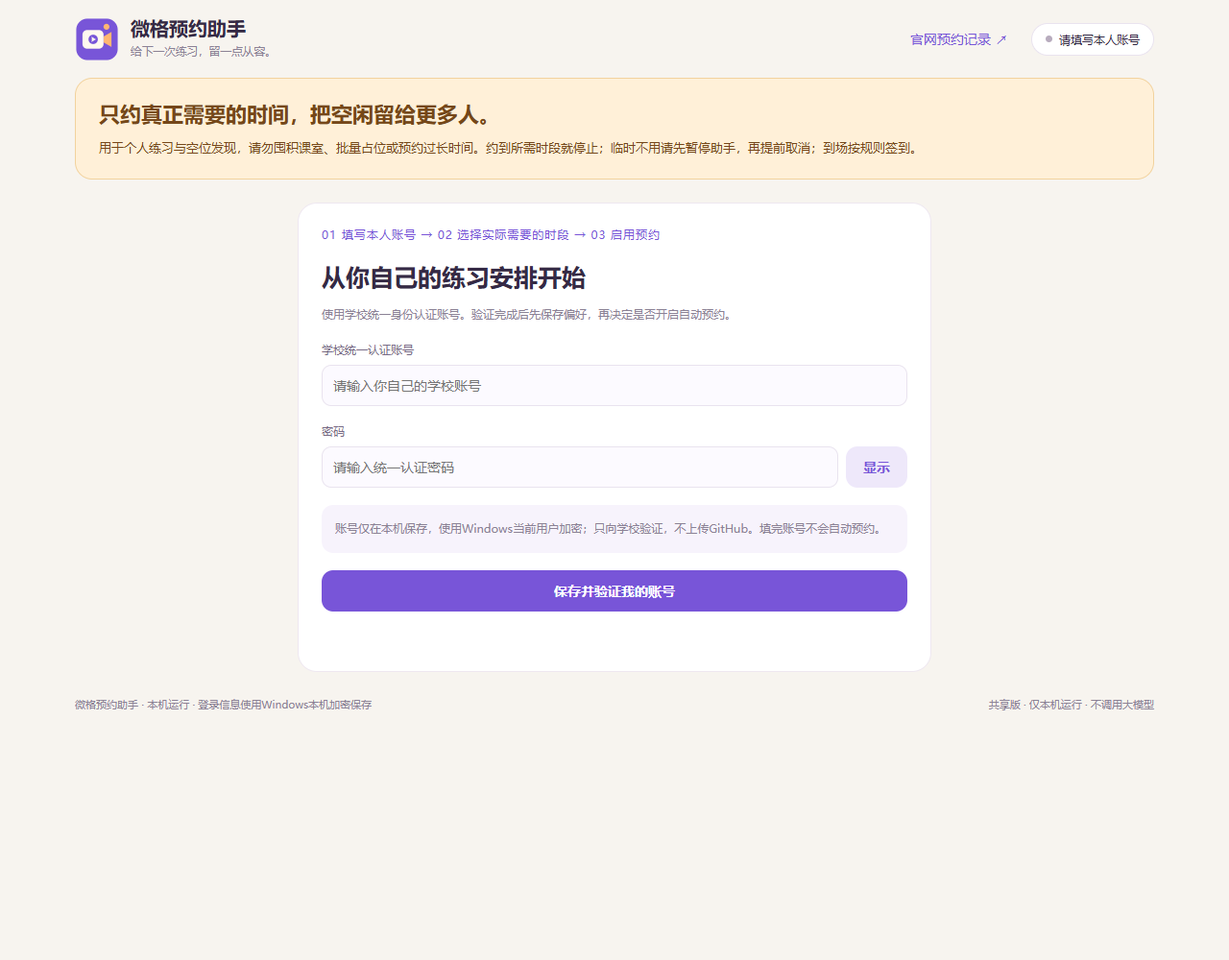
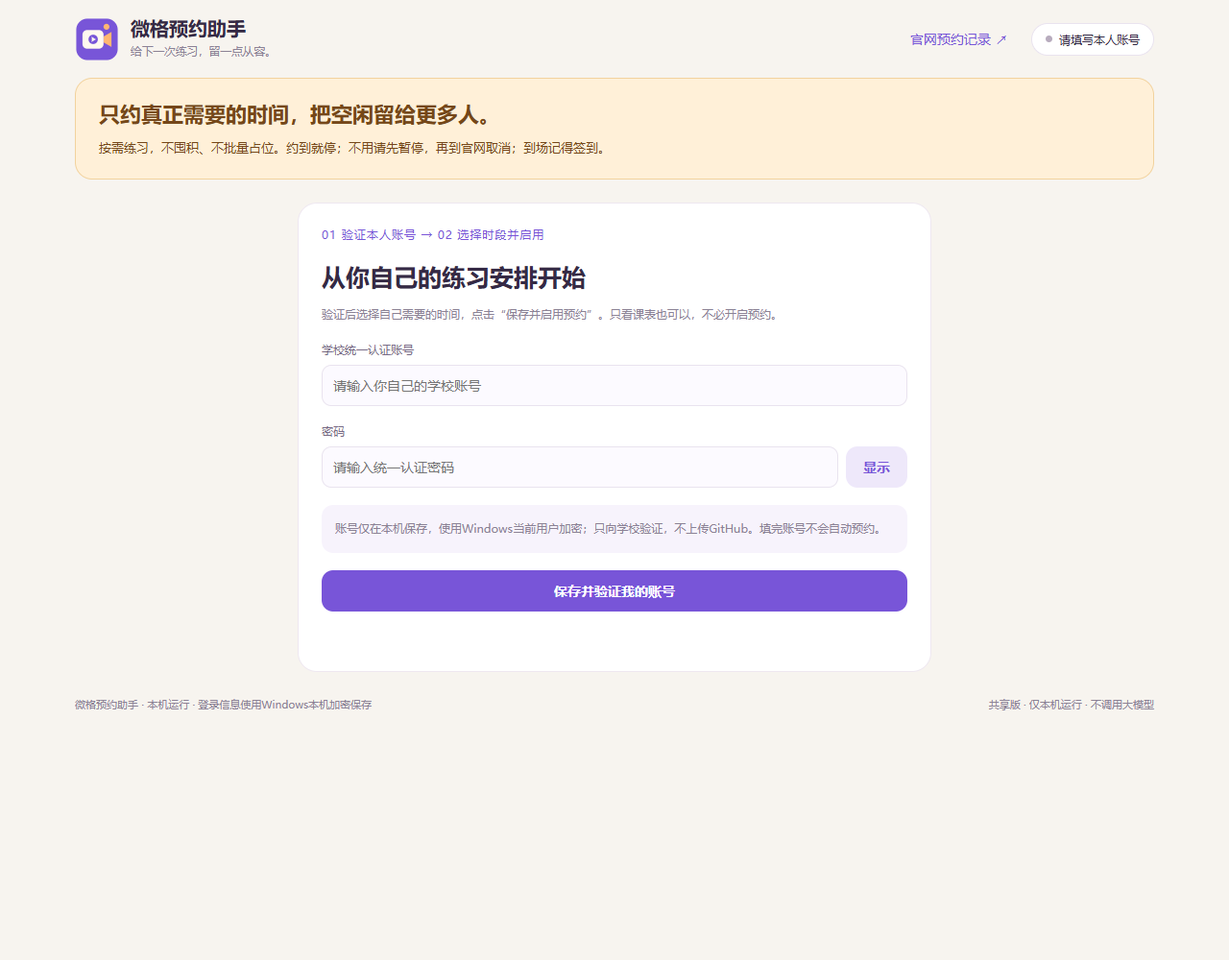
Simplify shared setup and promote need-based classroom use

diff --git a/ui.html b/ui.html
@@ -11,8 +11,8 @@ header{padding:16px 0}.wrap{padding-bottom:18px}.page-tabs{margin-bottom:16px}.h
 [hidden]{display:none!important}.fair-use{margin:0 0 20px;padding:20px 24px;background:#fff0d8;border:1px solid #f2d29d;border-radius:18px;color:#754719}.fair-use strong{font-size:22px;display:block;line-height:1.5}.fair-use p{margin:7px 0 0;font-size:13px;line-height:1.8}.account-setup{max-width:660px;margin:24px auto}.account-setup h1{font-size:25px;margin:0 0 12px}.account-setup .steps{color:var(--purple);font-size:12px;letter-spacing:1px;margin-bottom:20px}.password-row{display:flex;gap:8px}.password-row input{min-width:0;flex:1}.account-message{min-height:24px;color:#a55d2c;line-height:1.7;margin-top:14px}.account-actions{margin:0 0 18px}.account-privacy{background:#f7f3fc;border-radius:12px;padding:14px;margin:18px 0}.account-submit{width:100%}@media(max-width:530px){.fair-use strong{font-size:19px}.fair-use{padding:17px}}
 </style></head><body><div class="wrap">
 <header><div class="brand"><img src="/icon.svg" alt="摄像机"><div><strong>微格预约助手</strong><small>给下一次练习，留一点从容。</small></div></div><div class="nav"><a href="https://tstc.scnu.edu.cn/#/appointment-record" target="_blank" rel="noopener">官网预约记录 ↗</a><span class="pill"><i id="networkDot" class="dot"></i><span id="network">正在连接</span></span></div></header>
-<section class="fair-use" aria-label="按需预约倡议"><strong>只约真正需要的时间，把空闲留给更多人。</strong><p>用于个人练习与空位发现，请勿囤积课室、批量占位或预约过长时间。约到所需时段就停止；临时不用请先暂停助手，再提前取消；到场按规则签到。</p></section>
-<section id="accountSetup" class="card account-setup hide" aria-labelledby="setupTitle"><div class="steps">01 填写本人账号 → 02 选择实际需要的时段 → 03 启用预约</div><h1 id="setupTitle">从你自己的练习安排开始</h1><p class="sub">使用学校统一身份认证账号。验证完成后先保存偏好，再决定是否开启自动预约。</p><form id="accountForm"><label class="field"><span>学校统一认证账号</span><input id="loginAccount" name="username" autocomplete="username" maxlength="64" required placeholder="请输入你自己的学校账号"></label><label class="field"><span>密码</span><div class="password-row"><input id="loginPassword" name="password" type="password" autocomplete="current-password" maxlength="256" required placeholder="请输入统一认证密码"><button id="showPassword" type="button" aria-label="显示密码">显示</button></div></label><div class="account-privacy sub">账号仅在本机保存，使用Windows当前用户加密；只向学校验证，不上传GitHub。填完账号不会自动预约。</div><button id="submitAccount" class="primary account-submit" type="submit">保存并验证我的账号</button><button id="cancelAccount" class="outline hide" type="button">返回面板</button><div id="accountMessage" class="account-message" role="status" aria-live="polite"></div></form></section>
+<section class="fair-use" aria-label="按需预约倡议"><strong>只约真正需要的时间，把空闲留给更多人。</strong><p>按需练习，不囤积、不批量占位。约到就停；不用请先暂停，再到官网取消；到场记得签到。</p></section>
+<section id="accountSetup" class="card account-setup hide" aria-labelledby="setupTitle"><div class="steps">01 验证本人账号 → 02 选择时段并启用</div><h1 id="setupTitle">从你自己的练习安排开始</h1><p class="sub">验证后选择自己需要的时间，点击“保存并启用预约”。只看课表也可以，不必开启预约。</p><form id="accountForm"><label class="field"><span>学校统一认证账号</span><input id="loginAccount" name="username" autocomplete="username" maxlength="64" required placeholder="请输入你自己的学校账号"></label><label class="field"><span>密码</span><div class="password-row"><input id="loginPassword" name="password" type="password" autocomplete="current-password" maxlength="256" required placeholder="请输入统一认证密码"><button id="showPassword" type="button" aria-label="显示密码">显示</button></div></label><div class="account-privacy sub">账号仅在本机保存，使用Windows当前用户加密；只向学校验证，不上传GitHub。填完账号不会自动预约。</div><button id="submitAccount" class="primary account-submit" type="submit">保存并验证我的账号</button><button id="cancelAccount" class="outline hide" type="button">返回面板</button><div id="accountMessage" class="account-message" role="status" aria-live="polite"></div></form></section>
 <nav class="page-tabs" role="tablist" aria-label="助手页面"><button id="tab-home" role="tab" aria-selected="true" aria-controls="page-home" data-page="home">预约首页</button><button id="tab-board" role="tab" aria-selected="false" aria-controls="page-board" tabindex="-1" data-page="board">课室课表</button><button id="tab-observation" role="tab" aria-selected="false" aria-controls="page-observation" tabindex="-1" data-page="observation">预约观察</button><button id="tab-settings" role="tab" aria-selected="false" aria-controls="page-settings" tabindex="-1" data-page="settings">预约设置</button></nav>
 <section id="notificationBanner" class="card strong-notice hide" role="alert"><h2 id="notificationTitle"></h2><div id="notificationDetails" class="notice-detail"></div><div class="row"><span class="sub">这只是确认收到提醒，签到仍需本人到场完成。</span><button id="ackAlert" class="primary">我已看到提醒</button></div></section>
 <section id="page-board" class="page-panel" role="tabpanel" aria-labelledby="tab-board" hidden><section class="card board" aria-labelledby="boardTitle"><div class="row"><h2 id="boardTitle">课室预约一览</h2><span id="boardSummary" class="badge purple">等待读取</span></div>
@@ -31,8 +31,8 @@ header{padding:16px 0}.wrap{padding-bottom:18px}.page-tabs{margin-bottom:16px}.h
 <div class="wide"><div class="field-title">可以预约的时段 · 可多选</div><div class="periods"><label><input id="morning" type="checkbox"> 上午</label><label><input id="afternoon" type="checkbox" checked> 下午</label><label><input id="evening" type="checkbox"> 晚上</label></div><div class="sub">连续两段优先；下午先找15:00后的组合。</div></div>
 <label class="field"><span>连续两段抢不到时</span><select id="fallback"><option value="allow_single">接受一段，保留已抢到的时段</option><option value="pair_only">只要连续两段</option></select></label>
 <details class="advanced"><summary>放号时间与集中检查节奏</summary><label class="field"><span>每天开始时间 · 北京时间</span><input id="releaseTime" type="time" step="1" value="20:00:00"></label><div class="sub">提前90秒准备，20:00—20:20持续尝试，首轮直接申请匹配时段。20:20—24:00每5分钟查余位；09:00—18:00每10分钟检查。余位检查覆盖已开放日期，当天至少留30分钟到场；平台要求等待时顺延。</div></details>
-</div><div class="settings-actions"><button id="save" class="primary">保存偏好</button><button id="run" class="outline">立即按当前偏好预约</button></div>
-<details class="settings-info"><summary>预约规则和后台运行说明</summary><div class="divider"></div><div id="rules" class="sub">正在读取学校预约规则…</div><p class="hint">两段会依次提交。若第二段被别人先抢到，按你的偏好保留一段或取消本轮第一段。</p><p class="sub">关闭这个网页，后台仍会运行。电脑需要开机并联网；唤醒任务不会从关机状态启动电脑。</p></details></section></section>
+</div><div class="settings-actions"><button id="saveEnable" class="primary">保存并启用预约</button><button id="save" class="outline">仅保存偏好</button></div>
+<details class="settings-info"><summary>预约规则和后台运行说明</summary><button id="run" class="outline">立即按已保存偏好预约一次</button><div class="divider"></div><div id="rules" class="sub">正在读取学校预约规则…</div><p class="hint">两段会依次提交。若第二段被别人先抢到，按你的偏好保留一段或取消本轮第一段。</p><p class="sub">关闭这个网页，后台仍会运行。电脑需要开机并联网；唤醒任务不会从关机状态启动电脑。</p></details></section></section>
 <section id="page-home" class="page-panel" role="tabpanel" aria-labelledby="tab-home"><section class="hero"><div><div class="eyebrow">MY PRACTICE PLANNER</div><h1>练习有安排，预约看得见。</h1><p id="preferenceSummary">下午优先15:00后 · 同一教室连续两段</p><div id="quickStatus" class="summary-line">正在读取预约状态…</div><button id="openSettings" class="link-button">调整预约偏好 →</button></div><div class="counter"><small id="runLabel">距离下一次放号</small><strong id="countdown">--:--:--</strong><small id="nextLabel">北京时间</small><br><button id="toggle" class="switch">已暂停</button></div></section>
 <div class="reminder-bar"><div><strong id="reminderStatus">右下角静音提醒已开启</strong><span class="sub">确认预约后立即提示 · 关闭网页仍有效 · 不发声、不抢焦点</span></div><button id="testAlert" disabled>测试静音提醒</button></div>
 <div class="home-grid"><section class="card"><div class="status" id="statusBox"><strong id="phase">等待检查</strong><span class="sub" id="scanNote">正在加载实际预约状态</span><div class="alert hide" id="error"></div></div><div class="stats"><div><small>当前目标日期</small><strong id="target">—</strong></div><div><small>本轮提交次数</small><strong id="attempts">0</strong></div><div><small>最近课表检查</small><strong id="checked">—</strong></div></div><div class="row sectiontitle"><h2>我的待用预约</h2><span id="recordCount" class="badge purple">0 段</span></div><div id="records" class="empty">尚未读取预约记录</div></section>
@@ -58,9 +58,9 @@ function renderAccount(s){
  if(show){for(const name of pages)$('page-'+name).hidden=true;$('notificationBanner').classList.add('hide');$('submitAccount').disabled=accountSubmitting||s.account?.busy||s.busy||s.config.enabled;$('cancelAccount').classList.toggle('hide',!s.account?.configured);$('network').textContent=s.account?.configured?'本机账号已保存':'请填写本人账号';$('heartbeat').textContent='共享版 · 仅本机运行 · 不调用大模型';return false}
  showPage(activePage);$('editAccount').disabled=s.busy||s.config.enabled||!!s.pending;return true;
 }
-function render(s){state=s;nonce=s.actionToken||nonce;lastGood=Date.now();if(!renderAccount(s))return;if(!initialized){for(const k of ['campusId','mode','date','fallback','releaseTime'])$(k).value=s.config[k];for(const k of ['morning','afternoon','evening'])$(k).checked=s.config.periods.includes(k);initialized=true;$('dateField').classList.toggle('hide',s.config.mode!=='date');$('boardCampus').value=s.config.campusId;$('boardDate').value=s.targetDate}
+function render(s){s={...s,records:(s.records||[]).filter(r=>Date.parse(`${r.date}T${r.end}:00+08:00`)>s.serverNow)};state=s;nonce=s.actionToken||nonce;lastGood=Date.now();if(!renderAccount(s))return;if(!initialized){for(const k of ['campusId','mode','date','fallback','releaseTime'])$(k).value=s.config[k];for(const k of ['morning','afternoon','evening'])$(k).checked=s.config.periods.includes(k);initialized=true;$('dateField').classList.toggle('hide',s.config.mode!=='date');$('boardCampus').value=s.config.campusId;$('boardDate').value=s.targetDate}
 $('toggle').textContent=s.config.enabled?'预约中 · 暂停':'已暂停 · 启用';$('toggle').classList.toggle('on',s.config.enabled);$('network').textContent=s.connected?'平台已连接':'等待连接';$('networkDot').classList.toggle('ok',!!s.connected);$('account').textContent=s.user?`${s.user.name} · ${s.user.account}`:'等待身份认证';$('phase').textContent=s.phase;$('scanNote').textContent=s.scanNote||'等待课表检查';$('statusBox').classList.toggle('error',!!s.error);$('error').classList.toggle('hide',!s.error);$('error').textContent=s.error||'';const scope=s.schedule?.surplusDates||[];$('target').textContent=!s.burst?.active&&s.nextAction?.label==='余位检查'&&scope.length?scope[0]+(scope.length>1?' 至 '+scope.at(-1):''):s.targetDate||'请选择日期';$('attempts').textContent=s.attempts||0;$('checked').textContent=s.scanAt?time(s.scanAt).slice(0,5):'—';
-$('run').disabled=s.busy||dirty||!s.connected||!!s.pending||s.releasePriority;$('check').disabled=s.busy||dirty||s.releasePriority;$('save').disabled=s.busy;$('toggle').disabled=s.busy&&!s.config.enabled;
+$('run').disabled=s.busy||dirty||!s.connected||!!s.pending||s.releasePriority;$('check').disabled=s.busy||dirty||s.releasePriority;$('save').disabled=s.busy;$('saveEnable').disabled=s.busy||!!s.pending;$('saveEnable').textContent=s.config.enabled?'保存并继续预约':'保存并启用预约';$('toggle').disabled=s.busy&&!s.config.enabled;
 $('openSettings').textContent=dirty?'有未保存偏好 · 去保存 →':'调整预约偏好 →';$('check').title=dirty?'请先在预约设置中保存偏好':s.releasePriority?'放号时由自动任务集中检查':'检查登录与空闲时段';
 $('boardRefresh').disabled=s.busy||boardLoading||s.releasePriority;const periodNames={morning:'上午',afternoon:'下午',evening:'晚上'};$('preferenceSummary').textContent=s.config.periods.map(k=>periodNames[k]).join(' / ')+' · 连续两段优先'+(s.config.periods.includes('afternoon')?' · 下午先找15:00后':'');$('quickStatus').textContent=s.burst?.active?`${s.phase} · 第${s.burst.rounds}轮 · 提交${s.attempts}次 · 剩余${Math.max(0,Math.ceil((s.burst.endsAt-s.serverNow)/1000))}秒`:s.records?.length?`已约${s.records.length}段 · ${s.records[0].date} ${s.records[0].room}`:`${s.phase} · 目标${s.targetDate} · 20分钟放号尝试 · 晚间与白天继续检查余位`;maybeLoadBoard();
 const n=s.notifications||{},active=n.active;$('notificationBanner').classList.toggle('hide',!active);$('testAlert').disabled=!!active&&!active.test;$('reminderStatus').textContent=n.error|| (n.desktopVisible?'右下角静音提醒正在显示':'右下角静音提醒已开启');if(active){$('notificationTitle').textContent=active.title;$('notificationDetails').innerHTML=active.records.map(r=>`<div><b>${esc(r.date)} ${esc(r.start)}—${esc(r.end)}</b> · ${esc(r.building)} / ${esc(r.room)} · ${esc(r.reviewText||'平台记录已确认')}</div>`).join('')+(active.uncertain?'<div>还有提交结果待核对，请在官网确认。</div>':'')}
@@ -84,9 +84,10 @@ $('boardContent').innerHTML=[...groups.values()].map((rooms,i)=>`<div class="gro
 const closed=d.rooms.filter(r=>!r.slots.length);if(closed.length)$('boardContent').innerHTML+=`<p class="sub">未配置课表或已停用：${closed.map(r=>esc(r.name)).join('、')}</p>`}
 async function loadBoard(){if(boardLoading)return;boardLoading=true;boardData=null;$('boardError').classList.add('hide');$('boardSummary').textContent='读取中…';$('boardContent').className='empty';$('boardContent').textContent='正在读取学校课表…';$('boardFetched').textContent='以本次读取结果为准';for(const k of ['boardCampus','boardDate','boardRefresh'])$(k).disabled=true;try{const q=new URLSearchParams({campusId:$('boardCampus').value,date:$('boardDate').value});const r=await fetch('/api/overview?'+q);const d=await r.json();if(!r.ok)throw Error(d.error||'课表读取失败');boardData=d;renderBoard()}catch(e){$('boardError').textContent=e.message+'，可点击“刷新课表”重试。';$('boardError').classList.remove('hide');$('boardSummary').textContent='未能读取';$('boardContent').textContent='本次没有取得课表数据'}finally{boardLoading=false;for(const k of ['boardCampus','boardDate'])$(k).disabled=false;$('boardRefresh').disabled=!!state?.busy;await refresh()}}
 for(const k of ['boardCampus','boardDate'])$(k).onchange=loadBoard;$('boardRefresh').onclick=loadBoard;for(const b of $('boardPeriods').querySelectorAll('button'))b.onclick=()=>{boardPeriod=b.dataset.period;for(const other of $('boardPeriods').querySelectorAll('button'))other.classList.toggle('active',other===b);renderBoard()};
-for(const k of ['campusId','mode','date','fallback','releaseTime','morning','afternoon','evening'])$(k).addEventListener('change',()=>{dirty=true;$('save').textContent='保存偏好 · 有未保存修改';$('dateField').classList.toggle('hide',$('mode').value!=='date');$('run').disabled=true;$('check').disabled=true});
-$('save').onclick=async()=>{try{await action('config',config());dirty=false;$('save').textContent='保存偏好';toast('偏好已保存');await refresh()}catch(e){toast(e.message)}};
-$('toggle').onclick=async()=>{try{const c=state.config.enabled?{enabled:false}:{...config(),enabled:true};await action('config',c);if(c.enabled){dirty=false;$('save').textContent='保存偏好'}toast(c.enabled?'自动预约已启用':'自动预约已暂停');await refresh()}catch(e){toast(e.message)}};
+for(const k of ['campusId','mode','date','fallback','releaseTime','morning','afternoon','evening'])$(k).addEventListener('change',()=>{dirty=true;$('save').textContent='仅保存 · 有修改';$('dateField').classList.toggle('hide',$('mode').value!=='date');$('run').disabled=true;$('check').disabled=true});
+$('save').onclick=async()=>{try{await action('config',config());dirty=false;$('save').textContent='仅保存偏好';toast('偏好已保存');await refresh()}catch(e){toast(e.message)}};
+$('saveEnable').onclick=async()=>{try{await action('config',{...config(),enabled:true});dirty=false;$('save').textContent='仅保存偏好';showPage('home');toast('偏好已保存，自动预约已启用');await refresh()}catch(e){toast(e.message)}};
+$('toggle').onclick=async()=>{try{const c=state.config.enabled?{enabled:false}:{...config(),enabled:true};await action('config',c);if(c.enabled){dirty=false;$('save').textContent='仅保存偏好'}toast(c.enabled?'自动预约已启用':'自动预约已暂停');await refresh()}catch(e){toast(e.message)}};
 $('check').onclick=async()=>{try{await action('check');await refresh()}catch(e){toast(e.message)}};
 $('run').onclick=async()=>{try{await action('run');await refresh()}catch(e){toast(e.message)}};
 $('testAlert').onclick=async()=>{try{await action('test-alert');toast('已发送演示提醒，没有提交预约');await refresh()}catch(e){toast(e.message)}};

diff --git a/engine.js b/engine.js
@@ -170,8 +170,9 @@ class Engine {
     return this.config.enabled && delta >= -90000 && delta < RELEASE_WINDOW && !this.journal.days[today];
   }
   publicState() {
-    const nextRelease = this.nextRun(), nextSurplus = this.nextSurplusAt();
-    return { ...this.state, busy: this.state.busy || Boolean(this.surplusRunning), config: this.config, serverNow: this.now(), nextRun: nextRelease,
+    const now = this.now(), nextRelease = this.nextRun(), nextSurplus = this.nextSurplusAt();
+    return { ...this.state, records: this.state.records.filter(r => stamp(r.date, r.end) > now),
+      busy: this.state.busy || Boolean(this.surplusRunning), config: this.config, serverNow: now, nextRun: nextRelease,
       nextAction: { time: Math.min(nextRelease, nextSurplus ?? Infinity), label: nextSurplus != null && nextSurplus < nextRelease ? '余位检查' : '放号预约' },
       schedule: { releaseMinutes: RELEASE_WINDOW / 60000, daytime: '09:00—18:00', daytimeIntervalMinutes: 10, evening: '20:20—24:00', eveningIntervalMinutes: 5, leadMinutes: 30,
         surplusDates: this.config.mode === 'date' ? [this.config.date] : this.state.rules?.maxDays ? Array.from({ length: this.state.rules.maxDays + Number(this.now() >= stamp(chinaDate(this.now()), String(this.state.rules.releaseHour).padStart(2, '0') + ':00')) }, (_, i) => addDays(chinaDate(this.now()), i)) : [] },

diff --git a/server.js b/server.js
@@ -88,5 +88,5 @@ function createApp({ dataDir = path.join(process.env.LOCALAPPDATA, 'SCNU-MicroRo
     stop() { intervals.forEach(clearInterval); server.closeAllConnections(); return new Promise(resolve => server.close(resolve)); }
   };
 }
-if (require.main === module) createApp().start().catch(error => { if (error.code !== 'EADDRINUSE') console.error('助手启动失败，请重新运行安装并打开.cmd'); process.exit(error.code === 'EADDRINUSE' ? 0 : 1); });
+if (require.main === module) createApp().start().catch(error => { if (error.code !== 'EADDRINUSE') console.error('助手启动失败，请重新双击“打开预约助手.cmd”'); process.exit(error.code === 'EADDRINUSE' ? 0 : 1); });
 module.exports = { createApp };

diff --git a/README.md b/README.md
@@ -1,43 +1,45 @@
-# 微格预约助手 · 共享版
+# 微格教室预约助手
 
 > **只约真正需要的时间，把空闲留给更多人。**
->
-> 为个人练习和空位发现而做。请按实际需要选择时段，约到就停；临时不用请提前取消，到场按规则签到。不要用来囤积课室、替他人批量占位或长期占用公共资源。
 
-华南师范大学微格教室的 Windows 本地助手。每个人在自己的电脑填写自己的学校账号。它不是学校官方产品，不保证预约成功，也不会绕过学校限额、验证码或限流。
+面向有微格练习需要的华南师范大学同学，欢迎同门、师兄师姐、师弟师妹按需使用、分享。发现空闲教室、安排个人练习；请勿囤积课室、批量占位或预约过长时间。
 
-![首次启动：填写本人账号，默认暂停预约](docs/first-start.png)
+**[下载 Windows 版 ZIP](https://github.com/BoxunYang/scnu-micro-room/releases/latest/download/scnu-micro-room-windows.zip)** · 支持 Windows 10/11
 
-## 给舍友的三步说明
+## 开始使用
 
-1. 从本仓库 **Releases** 下载 [Windows 安装包 ZIP](https://github.com/BoxunYang/scnu-micro-room/releases/latest/download/scnu-micro-room-windows.zip)，**全部解压**到一个准备长期保留的文件夹。
-2. 双击 **`Install-and-Open.cmd`**。第一次会准备 Node.js 运行环境、创建桌面快捷方式并打开面板；如需下载，只从 [Node.js 官方下载站](https://nodejs.org/en/download)获取并校验 SHA-256。
-3. 填写**自己的学校统一认证账号和密码**并验证，选择真正需要的校区、日期和时段，再启用自动预约。首次安装默认暂停，不会填完账号就直接占位。
+1. 下载后**全部解压**到一个长期保留的文件夹，双击 **`打开预约助手.cmd`**。首次会自动准备运行环境，并创建桌面快捷方式。
+2. 在打开的页面填写**本人的学校统一认证账号、密码**，点击验证。
+3. 选择校区、日期、上午／下午／晚上，点击**“保存并启用预约”**。以后双击桌面“微格预约助手（共享版）”即可。
 
-以后双击桌面“微格预约助手（共享版）”或 `Open.cmd`。本机页面地址是 `http://127.0.0.1:8912/`。Windows 10/11，Node.js 22 或更新版本；没有现成运行环境时安装脚本准备 Node.js 24 LTS。电脑须开机、联网并保持当前 Windows 用户登录。关闭网页后后台继续运行；关机时不能预约。
+只想看空位，验证账号后直接进入“课室课表”即可，无须启用预约。首次默认只约指定一天，约到后自动暂停；填写账号不会自动提交预约。
 
-## 能做什么
+![首次使用：填写本人账号](docs/first-start.png)
 
-- 浏览石牌、大学城课表，按上午／下午／晚上查看空位。
-- 按本人偏好申请：同一教室连续两节优先，下午先找15:00后的组合，也可接受单节。
-- **默认仅预约指定的一天，成功后自动暂停**，减少忘记关闭导致的多余预约。确需日常练习时，可主动改为“每天新放出的日期”；校方放号配置以实际回读为准。
-- 放号起20分钟内持续尝试；晚间至午夜每5分钟、白天09:00—18:00每10分钟检查余位，其他时段不安排捡漏。遇到平台限流会退避。
-- 已有目标日期预约就跳过，成功后停止该日后续申请；服从学校总节次上限。未知提交结果先核验，不盲目重发、不自动替换已约教室。
-- 预约成功回读确认后，在右下角静音提醒，不发声、不抢焦点。
+## 使用时记住这几件事
 
-**不用了先暂停助手，再去官网取消预约**，避免后台又申请到同一天的空位。平台公告要求预约开始后10分钟内签到，连续预约首节缺席会影响后续节次；具体以[学校正式公告](https://tstc.scnu.edu.cn/#/notice/preview?id=8)为准。
+- 电脑须开机、联网，保持当前 Windows 用户登录。关闭网页后后台继续运行，关机或断网时无法预约。
+- 同一教室连续两段优先；下午先找15:00后的组合。预约成功后右下角静音提醒，不发声、不抢焦点。
+- 放号后持续尝试20分钟；之后至午夜每5分钟查余位，白天09:00—18:00每10分钟检查。遇到限流会退避，已有目标日期预约就跳过。
+- **临时不用：先暂停助手，再到[官网预约记录](https://tstc.scnu.edu.cn/#/appointment-record)取消。**按[学校公告](https://tstc.scnu.edu.cn/#/notice/preview?id=8)到场签到，预约开始后10分钟内完成；连续预约首节缺席会影响后续节次。
 
-## 账号与数据
+这是非官方本地工具，不保证预约成功，不绕过学校限额、验证码或限流。登录或课表异常时请暂停并核对官网。
 
-- 仓库和下载包不含原使用者的账号、密码、登录会话、预约记录、观察名单、个人截图或运行日志。
-- 输入只发送给本机后台，再向学校统一认证系统验证；不上传 GitHub，不使用远程公共服务器。
-- 密码和会话用 Windows 当前用户 DPAPI 加密，保存在 `%LOCALAPPDATA%\SCNU-MicroRoom-Community`，不是放在下载的程序文件夹里。不要分享这个数据目录，也不要共用一个 Windows 账号。
-- 课表只展示学校已向登录用户返回的姓名，不展示其他人的学号、联系方式。**七天姓名观察默认关闭**，避免每个使用者都重复采集名单；如确有需要，可在观察页自行启用，数据仅留在本机。
-- 账号验证失败不会覆盖已保存的账号；需要验证码时到官网处理。更新密码前先暂停预约。
-- 软件不调用大模型，不需要 OpenAI/Codex，不消耗其 token；这里也不包含任何 Codex 定时跟进。
+<details>
+<summary>账号与隐私</summary>
 
-## 开发与核验
+- 每人在自己的电脑填写自己的账号。密码与会话由 Windows 当前用户 DPAPI 加密，只用于向学校验证，不上传 GitHub。
+- 本机数据位于 `%LOCALAPPDATA%\SCNU-MicroRoom-Community`；不要分享该目录，也不要共用 Windows 账号。下载包不含开发者的账号、预约记录或观察名单。
+- 课表仅显示学校返回的姓名；七天姓名观察默认关闭，主动开启后数据也只留在本机。同名不能证明同一人、违规或实际到场。
+- 不调用大模型，不需要 OpenAI/Codex，不消耗其 token。反馈问题前请去掉密码、token、个人记录和姓名观察数据。
 
-无需安装 npm 依赖：`npm test` 运行本地测试，`npm start` 启动面板。测试使用虚拟账号和模拟学校响应，不提交真实预约。安装目录不要移动；移动后重新运行安装脚本更新路径。
+</details>
 
-学校接口、页面和规则可能调整。登录或课表读取失败会明确提示；发现不符时暂停预约并核对官网。请只反馈去掉个人信息后的问题，不上传密码、token、DPAPI 文件或姓名观察数据。
+<details>
+<summary>运行环境与开发</summary>
+
+首次启动需要联网；脚本优先使用本机 Node.js 22+，否则从 Node.js 官方下载24 LTS并核验 SHA-256。出现下载失败时，安装 [Node.js LTS](https://nodejs.org/en/download)后重新打开即可。请保留解压后的文件夹，桌面快捷方式依赖它。
+
+本机面板：`http://127.0.0.1:8912/`。开发者可运行 `npm start`；`npm test` 使用虚拟账号与模拟响应，不提交真实预约。无需安装 npm 依赖。
+
+</details>
